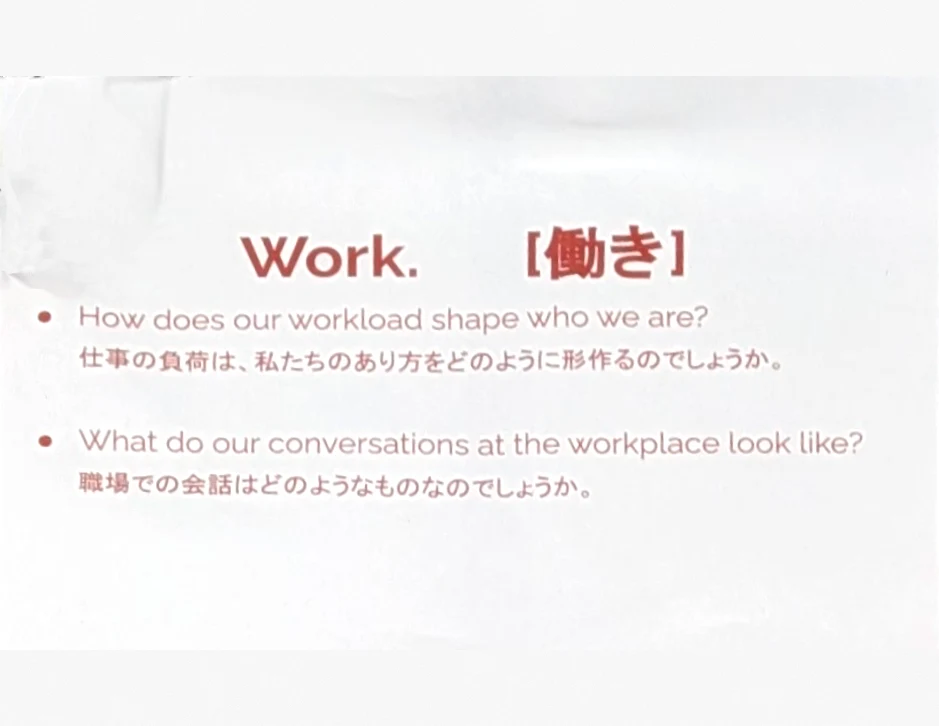
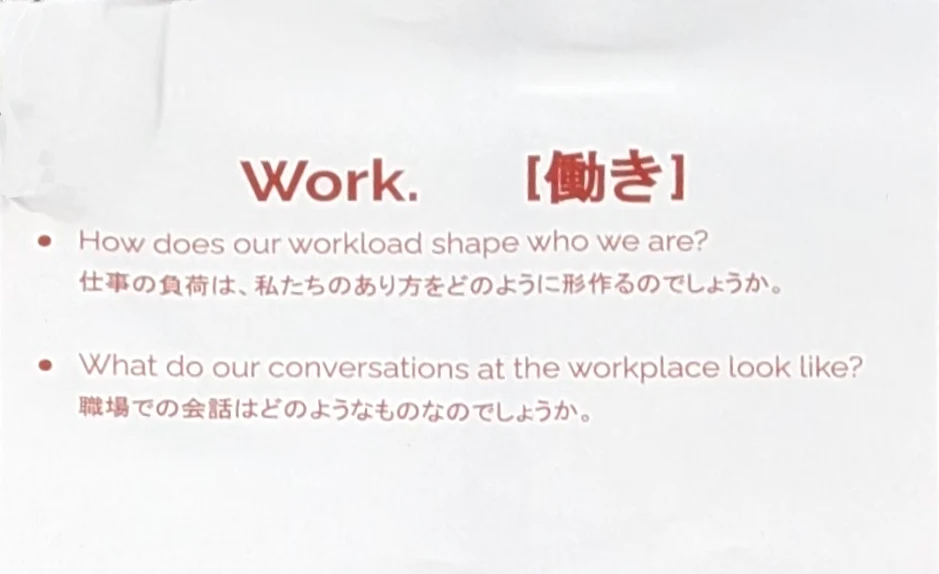
Preview: smaller phone, centred token rows, recoloured chart, artifacts without added borders, title plates across bottom edges
Claude-Session: https://claude.ai/code/session_01PnSu5xV1ctRTnpq1nQqMsJ

diff --git a/index.html b/index.html
@@ -22,7 +22,7 @@
 <link rel="preconnect" href="https://fonts.gstatic.com" crossorigin>
 <link rel="stylesheet" href="https://fonts.googleapis.com/css2?family=Bricolage+Grotesque:opsz,wght@12..96,300..800&family=Plus+Jakarta+Sans:ital,wght@0,300..800;1,300..800&family=Rampart+One&display=swap">
 <link rel="stylesheet" href="assets/site.css?v=20261013u">
-<link rel="stylesheet" href="assets/dir-i.css?v=20261105zq">
+<link rel="stylesheet" href="assets/dir-i.css?v=20261105zt">
 <!-- the ground fetched first, so it is usually there for the first frame -->
 <link rel="preload" as="image" href="assets/tex/moss-quiet-2k.webp" fetchpriority="high">
 <link rel="preload" as="image" href="assets/tex/canopy-shade-L.webp" fetchpriority="high">
@@ -89,7 +89,7 @@
  <h2 class="i-label" id="work">Case studies</h2>
  <section class="i-row i-cases"><div class="phone floor-phone no-grass lay" role="img" aria-label="The EXACT app measuring a vertical jump"><img src="assets/img/exact-capture-vertical-jump.webp" alt=""></div>
   <article class="case k1 d-phone"><div class="cf"><p class="c-type">EXACT Sports, 2026</p><h3><a class="c-link" href="work/exact-sports/">Reimagining the Combine</a></h3><p class="c-text">How interviews with coaches helped me build an AR app that replaces pen-and-paper testing at athletic events.</p><a class="c-more" href="work/exact-sports/" tabindex="-1" aria-hidden="true">Read the case study</a><ul class="c-tokens" aria-label="Methods"><li><svg viewBox="0 0 24 24" aria-hidden="true" focusable="false"><path d="M3 5h12v8H8l-4 3v-3H3z" fill="none" stroke="currentColor" stroke-width="2" stroke-linecap="round" stroke-linejoin="round"/><path d="M17 9h4v8h-1v3l-4-3h-5v-2" fill="none" stroke="currentColor" stroke-width="2" stroke-linecap="round" stroke-linejoin="round"/></svg><span>Coach interviews</span></li><li><svg viewBox="0 0 24 24" aria-hidden="true" focusable="false"><rect x="6" y="2" width="12" height="20" rx="2" fill="none" stroke="currentColor" stroke-width="2" stroke-linecap="round" stroke-linejoin="round"/><path d="M9 9l2 2 4-4M10 18h4" fill="none" stroke="currentColor" stroke-width="2" stroke-linecap="round" stroke-linejoin="round"/></svg><span>iOS + AR build</span></li><li><svg viewBox="0 0 24 24" aria-hidden="true" focusable="false"><circle cx="11" cy="11" r="7" fill="none" stroke="currentColor" stroke-width="2" stroke-linecap="round" stroke-linejoin="round"/><path d="M16 16l5 5M8 11l2 2 4-4" fill="none" stroke="currentColor" stroke-width="2" stroke-linecap="round" stroke-linejoin="round"/></svg><span>Usability tests</span></li></ul></div></article>
-  <article class="card lay case k2 d-sheet"><div class="cf"><div class="c-art art-lab c-deck"><img src="assets/img/cards/dialect-work-sheet.webp" alt="Workshop prompt sheet: Work. How does our workload shape who we are? What do our conversations at the workplace look like? Each question is also written in Japanese." width="939" height="726" loading="eager" decoding="async"></div><p class="c-type">Embodied Cognition Lab, 2025–26</p><h3><a class="c-link" href="work/embodied-cognition/">An Unorthodox Approach to Language Learning</a></h3><p class="c-text">How I worked to help design and pilot a role-playing workshop to help language learners get comfortable making mistakes.</p><a class="c-more" href="work/embodied-cognition/" tabindex="-1" aria-hidden="true">Read the case study</a><ul class="c-tokens" aria-label="Methods"><li><svg viewBox="0 0 24 24" aria-hidden="true" focusable="false"><circle cx="12" cy="12" r="5" fill="none" stroke="currentColor" stroke-width="2" stroke-linecap="round" stroke-linejoin="round"/><circle cx="12" cy="3.5" r="1.8" fill="none" stroke="currentColor" stroke-width="2" stroke-linecap="round" stroke-linejoin="round"/><circle cx="12" cy="20.5" r="1.8" fill="none" stroke="currentColor" stroke-width="2" stroke-linecap="round" stroke-linejoin="round"/><circle cx="3.5" cy="12" r="1.8" fill="none" stroke="currentColor" stroke-width="2" stroke-linecap="round" stroke-linejoin="round"/><circle cx="20.5" cy="12" r="1.8" fill="none" stroke="currentColor" stroke-width="2" stroke-linecap="round" stroke-linejoin="round"/></svg><span>Workshop design</span></li><li><svg viewBox="0 0 24 24" aria-hidden="true" focusable="false"><rect x="4" y="3" width="16" height="18" rx="2" fill="none" stroke="currentColor" stroke-width="2" stroke-linecap="round" stroke-linejoin="round"/><path d="M7 8l1.5 1.5L11 7M7 14l1.5 1.5L11 13M13 8.5h4M13 14.5h4" fill="none" stroke="currentColor" stroke-width="2" stroke-linecap="round" stroke-linejoin="round"/></svg><span>Pre/post surveys</span></li><li><svg viewBox="0 0 24 24" aria-hidden="true" focusable="false"><path d="M5 21V4M5 4h12l-3 4 3 4H5" fill="none" stroke="currentColor" stroke-width="2" stroke-linecap="round" stroke-linejoin="round"/></svg><span>Pilot study</span></li></ul></div></article>
+  <article class="card lay case k2 d-sheet"><div class="cf"><div class="c-art art-lab c-deck"><img src="assets/img/cards/dialect-work-sheet.webp" alt="Workshop prompt sheet: Work. How does our workload shape who we are? What do our conversations at the workplace look like? Each question is also written in Japanese." width="939" height="574" loading="eager" decoding="async"></div><p class="c-type">Embodied Cognition Lab, 2025–26</p><h3><a class="c-link" href="work/embodied-cognition/">An Unorthodox Approach to Language Learning</a></h3><p class="c-text">How I worked to help design and pilot a role-playing workshop to help language learners get comfortable making mistakes.</p><a class="c-more" href="work/embodied-cognition/" tabindex="-1" aria-hidden="true">Read the case study</a><ul class="c-tokens" aria-label="Methods"><li><svg viewBox="0 0 24 24" aria-hidden="true" focusable="false"><circle cx="12" cy="12" r="5" fill="none" stroke="currentColor" stroke-width="2" stroke-linecap="round" stroke-linejoin="round"/><circle cx="12" cy="3.5" r="1.8" fill="none" stroke="currentColor" stroke-width="2" stroke-linecap="round" stroke-linejoin="round"/><circle cx="12" cy="20.5" r="1.8" fill="none" stroke="currentColor" stroke-width="2" stroke-linecap="round" stroke-linejoin="round"/><circle cx="3.5" cy="12" r="1.8" fill="none" stroke="currentColor" stroke-width="2" stroke-linecap="round" stroke-linejoin="round"/><circle cx="20.5" cy="12" r="1.8" fill="none" stroke="currentColor" stroke-width="2" stroke-linecap="round" stroke-linejoin="round"/></svg><span>Workshop design</span></li><li><svg viewBox="0 0 24 24" aria-hidden="true" focusable="false"><rect x="4" y="3" width="16" height="18" rx="2" fill="none" stroke="currentColor" stroke-width="2" stroke-linecap="round" stroke-linejoin="round"/><path d="M7 8l1.5 1.5L11 7M7 14l1.5 1.5L11 13M13 8.5h4M13 14.5h4" fill="none" stroke="currentColor" stroke-width="2" stroke-linecap="round" stroke-linejoin="round"/></svg><span>Pre/post surveys</span></li><li><svg viewBox="0 0 24 24" aria-hidden="true" focusable="false"><path d="M5 21V4M5 4h12l-3 4 3 4H5" fill="none" stroke="currentColor" stroke-width="2" stroke-linecap="round" stroke-linejoin="round"/></svg><span>Pilot study</span></li></ul></div></article>
   <article class="card lay case k3 d-fig"><div class="cf"><div class="c-art art-birds c-deck"><img src="assets/img/cards/birds-felt-understanding.webp" alt="Chart: felt understanding when facing sexual minority stress is higher when the close other also identifies as a sexual minority." width="558" height="519" loading="eager" decoding="async"></div><p class="c-type">BIRDS Lab, 2025–26</p><h3><a class="c-link" href="work/birds-lab/">Unpacking Allyship</a></h3><p class="c-text">What I took away from analyzing and running studies about the nature of how to best help people recovering from minority stress.</p><a class="c-more" href="work/birds-lab/" tabindex="-1" aria-hidden="true">Read the case study</a><ul class="c-tokens" aria-label="Methods"><li><svg viewBox="0 0 24 24" aria-hidden="true" focusable="false"><path d="M4 20l4-1 11-11-3-3L5 16z" fill="none" stroke="currentColor" stroke-width="2" stroke-linecap="round" stroke-linejoin="round"/><path d="M14 7l3 3" fill="none" stroke="currentColor" stroke-width="2" stroke-linecap="round" stroke-linejoin="round"/></svg><span>Survey build</span></li><li><svg viewBox="0 0 24 24" aria-hidden="true" focusable="false"><path d="M4 5h16M4 10h10M4 15h13M4 20h8" fill="none" stroke="currentColor" stroke-width="2" stroke-linecap="round" stroke-linejoin="round"/><path d="M15 9h6v3h-6z" fill="currentColor" stroke="none" opacity=".55"/></svg><span>Qual coding</span></li><li><svg viewBox="0 0 24 24" aria-hidden="true" focusable="false"><path d="M4 20h16M7 20v-6M12 20V8M17 20v-9" fill="none" stroke="currentColor" stroke-width="2" stroke-linecap="round" stroke-linejoin="round"/></svg><span>Data viz</span></li></ul></div></article>
  </section>
  <h2 class="i-label" id="about">About</h2>

diff --git a/assets/dir-i.css b/assets/dir-i.css
@@ -914,3 +914,31 @@ li.mock::before, label.mock::before, .c-pdf.mock::before, .c-now.mock::before { 
   .x-i.x-i.x-i .i-cases > .k2 { grid-column: 5 / 9; margin: calc(var(--H) - (var(--col) * 4 + 72px) * 726 / 939) 0 0; }
   .x-i.x-i.x-i .i-cases > .k3 { grid-column: 10 / 13; margin: calc(var(--H) - (var(--col) * 3 + 48px) * 1.16) 0 0; }
 }
+/* Phone at the row's scale (Ian: "way too big"): its bottom is the row's baseline, a little taller than a 3-column card. */
+@media (min-width: 1001px) {
+  .x-i.x-i .i-cases { --B: calc(var(--H) * 1.12); }
+  .x-i.x-i.x-i.x-i .i-cases > .floor-phone { --mm: calc(var(--B) / 147.6); width: calc(var(--mm) * 71.6); grid-column: 1 / 4; justify-self: center; margin: 0; }
+  .x-i.x-i.x-i.x-i .i-cases > .k1.d-phone { grid-column: 1 / 4; justify-self: center; width: calc(var(--B) / 147.6 * 71.6); height: var(--B); }
+  .x-i.x-i.x-i.x-i .i-cases > .k1.d-phone h3 { left: 6%; right: 6%; }
+  .x-i.x-i.x-i.x-i .i-cases > .k2 { margin-top: calc(var(--B) - (var(--col) * 4 + 72px) * 726 / 939); }
+  .x-i.x-i.x-i.x-i .i-cases > .k3 { margin-top: calc(var(--B) - (var(--col) * 3 + 48px) * 1.16); }
+}
+/* Tokens: an even, centred row under each object, alternating small tilts. */
+.x-i.x-i .c-tokens { left: -40px; right: -40px; justify-content: center; gap: 10px; bottom: -50px; }
+.x-i.x-i .c-tokens li:nth-child(1) { rotate: -6deg; translate: 0 0; } .x-i.x-i .c-tokens li:nth-child(2) { rotate: 4deg; translate: 0 0; } .x-i.x-i .c-tokens li:nth-child(3) { rotate: -2deg; translate: 0 0; }
+/* Embedded in the scene: the sheet is the photo itself (no added margin), paper tone matched to the other stock, soft curl shading at the edges, lit by the same canopy light. */
+.x-i.x-i.x-i.x-i .i-cases > .case.d-sheet { aspect-ratio: 939 / 574; background: #f1efe8; }
+@media (min-width: 1001px) { .x-i.x-i.x-i.x-i .i-cases > .k2 { margin-top: calc(var(--B) - (var(--col) * 4 + 72px) * 574 / 939); } }
+.x-i.x-i.x-i .i-cases > .case.d-sheet .c-art.c-deck img { filter: sepia(.08) brightness(.97); }
+.x-i.x-i.x-i .i-cases > .case.d-fig .c-art.c-deck img { filter: none; }
+.x-i.x-i.x-i .i-cases > .case.d-sheet::after, .x-i.x-i.x-i .i-cases > .case.d-fig::after { z-index: 3; box-shadow: inset 0 0 0 1px rgba(0,0,0,.05), inset 0 -10px 16px -10px rgba(40,44,20,.22), inset 10px 0 16px -12px rgba(40,44,20,.16); background-image: linear-gradient(125deg, rgba(255,255,255,.12), rgba(255,255,255,0) 40%), url("tex/stock-grain.webp?v=2"); background-size: auto, 340px; mix-blend-mode: overlay; }
+/* Title plates sit across each object's bottom edge (half on the object, half on the moss) so they never cover the artifact; tokens lie below. */
+.x-i.x-i.x-i.x-i .i-cases > .case h3 { top: auto; bottom: -24px; translate: none; }
+.x-i.x-i.x-i.x-i .i-cases > .case.d-sheet h3 { left: 14%; right: 14%; }
+.x-i.x-i .c-tokens { bottom: -118px; }
+@media (min-width: 1001px) { .x-i.x-i.x-i .i-row.i-cases { margin-bottom: 200px; } }
+/* BIRDS: the figure is the whole printed page, no inset. */
+.x-i.x-i.x-i.x-i .i-cases > .case.d-fig { aspect-ratio: 558 / 519; }
+.x-i.x-i.x-i.x-i .i-cases > .case.d-fig .c-art.c-deck { inset: 0; border-radius: inherit; overflow: hidden; }
+.x-i.x-i.x-i .i-cases > .case.d-fig .c-art.c-deck img { mix-blend-mode: multiply; filter: sepia(.06) brightness(.98); }
+@media (min-width: 1001px) { .x-i.x-i.x-i.x-i .i-cases > .k3 { margin-top: calc(var(--B) - (var(--col) * 3 + 48px) * 519 / 558); } }

diff --git a/work/birds-lab/index.html b/work/birds-lab/index.html
@@ -22,7 +22,7 @@
 <link rel="preconnect" href="https://fonts.gstatic.com" crossorigin>
 <link rel="stylesheet" href="https://fonts.googleapis.com/css2?family=Bricolage+Grotesque:wght@300..800&family=Plus+Jakarta+Sans:ital,wght@0,300..800;1,300..800&family=Rampart+One&display=swap">
 <link rel="stylesheet" href="../../assets/site.css?v=20261013u">
-<link rel="stylesheet" href="../../assets/dir-i.css?v=20261105zq">
+<link rel="stylesheet" href="../../assets/dir-i.css?v=20261105zt">
 <link rel="stylesheet" href="../../assets/case-i.css?v=20261029m">
 <!-- the ground fetched first, so it is usually there for the first frame -->
 <link rel="preload" as="image" href="../../assets/tex/moss-quiet-2k.webp" fetchpriority="high">

diff --git a/work/daily-weather/index.html b/work/daily-weather/index.html
@@ -22,7 +22,7 @@
 <link rel="preconnect" href="https://fonts.gstatic.com" crossorigin>
 <link rel="stylesheet" href="https://fonts.googleapis.com/css2?family=Bricolage+Grotesque:wght@300..800&family=Plus+Jakarta+Sans:ital,wght@0,300..800;1,300..800&family=Rampart+One&display=swap">
 <link rel="stylesheet" href="../../assets/site.css?v=20261013u">
-<link rel="stylesheet" href="../../assets/dir-i.css?v=20261105zq">
+<link rel="stylesheet" href="../../assets/dir-i.css?v=20261105zt">
 <link rel="stylesheet" href="../../assets/case-i.css?v=20261029m">
 <!-- the ground fetched first, so it is usually there for the first frame -->
 <link rel="preload" as="image" href="../../assets/tex/moss-quiet-2k.webp" fetchpriority="high">

diff --git a/work/embodied-cognition/index.html b/work/embodied-cognition/index.html
@@ -22,7 +22,7 @@
 <link rel="preconnect" href="https://fonts.gstatic.com" crossorigin>
 <link rel="stylesheet" href="https://fonts.googleapis.com/css2?family=Bricolage+Grotesque:wght@300..800&family=Plus+Jakarta+Sans:ital,wght@0,300..800;1,300..800&family=Rampart+One&display=swap">
 <link rel="stylesheet" href="../../assets/site.css?v=20261013u">
-<link rel="stylesheet" href="../../assets/dir-i.css?v=20261105zq">
+<link rel="stylesheet" href="../../assets/dir-i.css?v=20261105zt">
 <link rel="stylesheet" href="../../assets/case-i.css?v=20261029m">
 <!-- the ground fetched first, so it is usually there for the first frame -->
 <link rel="preload" as="image" href="../../assets/tex/moss-quiet-2k.webp" fetchpriority="high">

diff --git a/work/exact-sports/index.html b/work/exact-sports/index.html
@@ -22,7 +22,7 @@
 <link rel="preconnect" href="https://fonts.gstatic.com" crossorigin>
 <link rel="stylesheet" href="https://fonts.googleapis.com/css2?family=Bricolage+Grotesque:wght@300..800&family=Plus+Jakarta+Sans:ital,wght@0,300..800;1,300..800&family=Rampart+One&display=swap">
 <link rel="stylesheet" href="../../assets/site.css?v=20261013u">
-<link rel="stylesheet" href="../../assets/dir-i.css?v=20261105zq">
+<link rel="stylesheet" href="../../assets/dir-i.css?v=20261105zt">
 <link rel="stylesheet" href="../../assets/case-i.css?v=20261029m">
 <!-- the ground fetched first, so it is usually there for the first frame -->
 <link rel="preload" as="image" href="../../assets/tex/moss-quiet-2k.webp" fetchpriority="high">

diff --git a/projects/index.html b/projects/index.html
@@ -22,7 +22,7 @@
 <link rel="preconnect" href="https://fonts.gstatic.com" crossorigin>
 <link rel="stylesheet" href="https://fonts.googleapis.com/css2?family=Bricolage+Grotesque:wght@300..800&family=Plus+Jakarta+Sans:ital,wght@0,300..800;1,300..800&family=Rampart+One&display=swap">
 <link rel="stylesheet" href="../assets/site.css?v=20261013u">
-<link rel="stylesheet" href="../assets/dir-i.css?v=20261105zq">
+<link rel="stylesheet" href="../assets/dir-i.css?v=20261105zt">
 <link rel="stylesheet" href="../assets/case-i.css?v=20261029m">
 <!-- the ground fetched first, so it is usually there for the first frame -->
 <link rel="preload" as="image" href="../assets/tex/moss-quiet-2k.webp" fetchpriority="high">
